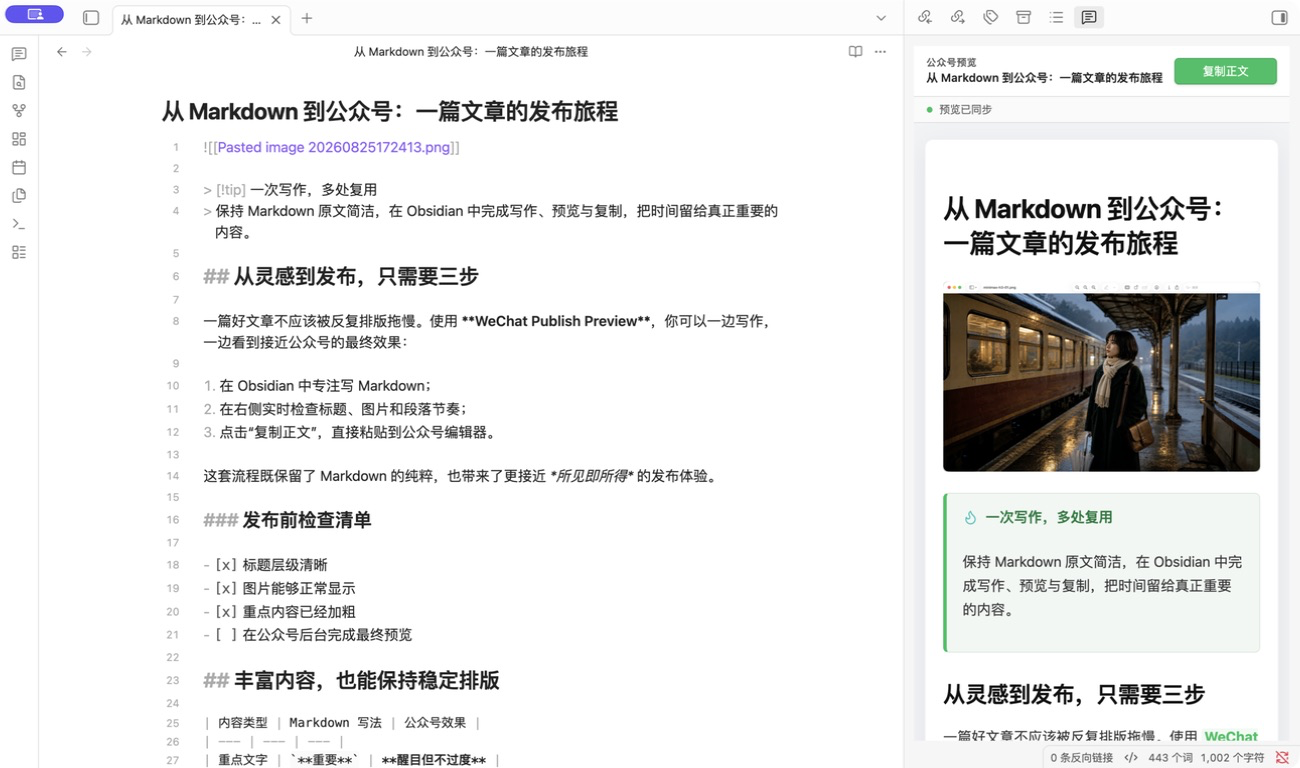
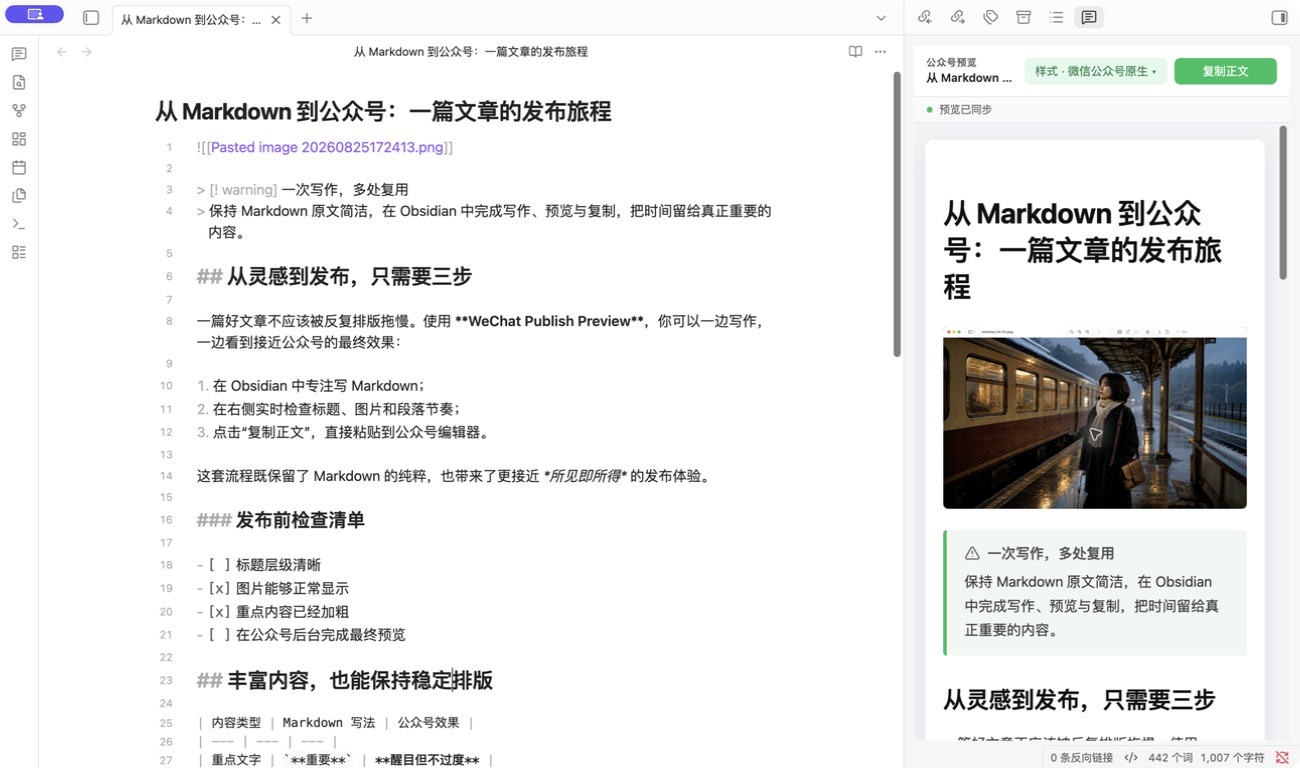
docs: refresh README screenshots

diff --git a/README.en.md b/README.en.md
@@ -10,6 +10,10 @@ During copy, local images are automatically converted to Base64 and embedded wit
 
 ![Live WeChat article preview in Obsidian](images/wechat-publish-preview.png)
 
+![Theme-aware TODO checkboxes and rich-text preview](images/wechat-publish-preview-tasks.png)
+
+*Latest interface: switch among 30 article themes from the toolbar while callout blocks and TODO markers inherit the active theme colors.*
+
 ## 🚀 Highlights
 
 - **Live preview** updates shortly after you edit the active note, without requiring a save.
@@ -89,6 +93,7 @@ WeChat Publish Preview runs locally, does not collect telemetry, and never submi
 - Kept callout type symbols visible and theme-colored in the preview, with static WeChat-compatible callout output during copy.
 - Replaced native Obsidian task checkboxes with theme-colored checked and unchecked markers that remain consistent in copied content.
 - Improved dark-theme code highlighting, callout readability, nested list styling, and preservation of theme typography.
+- Refreshed the README screenshots to show the new style selector, theme-aware callouts, and themed TODO markers.
 
 ### 1.0.4 — 2026-08-25
 
